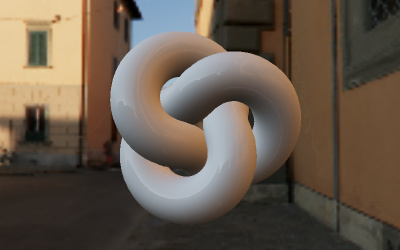
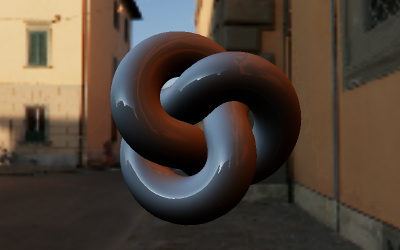
HalfFloat PMREM (#22998)
* changed format

* PMREM RGBE->HalfFloat

* fixed toneMapping problem

* update screenshots

* Update WebGLRenderer.js

* Update WebGLRenderer.js

Changed region(s): [[0.27, 0.112, 0.75, 0.924]]

diff --git a/src/extras/PMREMGenerator.js b/src/extras/PMREMGenerator.js
@@ -4,17 +4,17 @@ import {
 	CubeUVReflectionMapping,
 	GammaEncoding,
 	LinearEncoding,
+	LinearFilter,
 	NoToneMapping,
-	NearestFilter,
 	NoBlending,
 	RGBDEncoding,
 	RGBEEncoding,
 	RGBAFormat,
-	RGBEFormat,
 	RGBM16Encoding,
 	RGBM7Encoding,
 	UnsignedByteType,
-	sRGBEncoding
+	sRGBEncoding,
+	HalfFloatType
 } from '../constants.js';
 
 import { BufferAttribute } from '../core/BufferAttribute.js';
@@ -234,12 +234,12 @@ class PMREMGenerator {
 	_allocateTargets( texture ) { // warning: null texture is valid
 
 		const params = {
-			magFilter: NearestFilter,
-			minFilter: NearestFilter,
+			magFilter: LinearFilter,
+			minFilter: LinearFilter,
 			generateMipmaps: false,
-			type: UnsignedByteType,
-			format: RGBEFormat,
-			encoding: _isLDR( texture ) ? texture.encoding : RGBEEncoding,
+			type: HalfFloatType,
+			format: RGBAFormat,
+			encoding: LinearEncoding,
 			depthBuffer: false
 		};
 
@@ -267,12 +267,10 @@ class PMREMGenerator {
 		const renderer = this._renderer;
 
 		const originalAutoClear = renderer.autoClear;
-		const outputEncoding = renderer.outputEncoding;
 		const toneMapping = renderer.toneMapping;
 		renderer.getClearColor( _clearColor );
 
 		renderer.toneMapping = NoToneMapping;
-		renderer.outputEncoding = LinearEncoding;
 		renderer.autoClear = false;
 
 		const backgroundMaterial = new MeshBasicMaterial( {
@@ -342,7 +340,6 @@ class PMREMGenerator {
 		backgroundBox.material.dispose();
 
 		renderer.toneMapping = toneMapping;
-		renderer.outputEncoding = outputEncoding;
 		renderer.autoClear = originalAutoClear;
 		scene.background = background;
 
@@ -400,7 +397,6 @@ class PMREMGenerator {
 		}
 
 		this._setEncoding( uniforms[ 'inputEncoding' ], texture );
-		this._setEncoding( uniforms[ 'outputEncoding' ], cubeUVRenderTarget.texture );
 
 		_setViewport( cubeUVRenderTarget, 0, 0, 3 * SIZE_MAX, 2 * SIZE_MAX );
 
@@ -532,9 +528,6 @@ class PMREMGenerator {
 		blurUniforms[ 'dTheta' ].value = radiansPerPixel;
 		blurUniforms[ 'mipInt' ].value = LOD_MAX - lodIn;
 
-		this._setEncoding( blurUniforms[ 'inputEncoding' ], targetIn.texture );
-		this._setEncoding( blurUniforms[ 'outputEncoding' ], targetIn.texture );
-
 		const outputSize = _sizeLods[ lodOut ];
 		const x = 3 * Math.max( 0, SIZE_MAX - 2 * outputSize );
 		const y = ( lodOut === 0 ? 0 : 2 * SIZE_MAX ) + 2 * outputSize * ( lodOut > LOD_MAX - LOD_MIN ? lodOut - LOD_MAX + LOD_MIN : 0 );
@@ -544,14 +537,6 @@ class PMREMGenerator {
 		renderer.render( blurMesh, _flatCamera );
 
 	}
-
-}
-
-function _isLDR( texture ) {
-
-	if ( texture === undefined || texture.type !== UnsignedByteType ) return false;
-
-	return texture.encoding === LinearEncoding || texture.encoding === sRGBEncoding || texture.encoding === GammaEncoding;
 
 }
 
@@ -667,9 +652,7 @@ function _getBlurShader( maxSamples ) {
 			'latitudinal': { value: false },
 			'dTheta': { value: 0 },
 			'mipInt': { value: 0 },
-			'poleAxis': { value: poleAxis },
-			'inputEncoding': { value: ENCODINGS[ LinearEncoding ] },
-			'outputEncoding': { value: ENCODINGS[ LinearEncoding ] }
+			'poleAxis': { value: poleAxis }
 		},
 
 		vertexShader: _getCommonVertexShader(),
@@ -735,8 +718,6 @@ function _getBlurShader( maxSamples ) {
 
 				}
 
-				gl_FragColor = linearToOutputTexel( gl_FragColor );
-
 			}
 		`,
 
@@ -760,8 +741,7 @@ function _getEquirectShader() {
 		uniforms: {
 			'envMap': { value: null },
 			'texelSize': { value: texelSize },
-			'inputEncoding': { value: ENCODINGS[ LinearEncoding ] },
-			'outputEncoding': { value: ENCODINGS[ LinearEncoding ] }
+			'inputEncoding': { value: ENCODINGS[ LinearEncoding ] }
 		},
 
 		vertexShader: _getCommonVertexShader(),
@@ -801,8 +781,6 @@ function _getEquirectShader() {
 				vec3 bm = mix( bl, br, f.x );
 				gl_FragColor.rgb = mix( tm, bm, f.y );
 
-				gl_FragColor = linearToOutputTexel( gl_FragColor );
-
 			}
 		`,
 
@@ -824,8 +802,7 @@ function _getCubemapShader() {
 
 		uniforms: {
 			'envMap': { value: null },
-			'inputEncoding': { value: ENCODINGS[ LinearEncoding ] },
-			'outputEncoding': { value: ENCODINGS[ LinearEncoding ] }
+			'inputEncoding': { value: ENCODINGS[ LinearEncoding ] }
 		},
 
 		vertexShader: _getCommonVertexShader(),
@@ -843,9 +820,7 @@ function _getCubemapShader() {
 
 			void main() {
 
-				gl_FragColor = vec4( 0.0, 0.0, 0.0, 1.0 );
-				gl_FragColor.rgb = envMapTexelToLinear( textureCube( envMap, vec3( - vOutputDirection.x, vOutputDirection.yz ) ) ).rgb;
-				gl_FragColor = linearToOutputTexel( gl_FragColor );
+				gl_FragColor = envMapTexelToLinear( textureCube( envMap, vec3( - vOutputDirection.x, vOutputDirection.yz ) ) );
 
 			}
 		`,
@@ -928,7 +903,6 @@ function _getEncodings() {
 	return /* glsl */`
 
 		uniform int inputEncoding;
-		uniform int outputEncoding;
 
 		#include <encodings_pars_fragment>
 
@@ -961,40 +935,6 @@ function _getEncodings() {
 			} else {
 
 				return GammaToLinear( value, 2.2 );
-
-			}
-
-		}
-
-		vec4 linearToOutputTexel( vec4 value ) {
-
-			if ( outputEncoding == 0 ) {
-
-				return value;
-
-			} else if ( outputEncoding == 1 ) {
-
-				return LinearTosRGB( value );
-
-			} else if ( outputEncoding == 2 ) {
-
-				return LinearToRGBE( value );
-
-			} else if ( outputEncoding == 3 ) {
-
-				return LinearToRGBM( value, 7.0 );
-
-			} else if ( outputEncoding == 4 ) {
-
-				return LinearToRGBM( value, 16.0 );
-
-			} else if ( outputEncoding == 5 ) {
-
-				return LinearToRGBD( value, 256.0 );
-
-			} else {
-
-				return LinearToGamma( value, 2.2 );
 
 			}
 

diff --git a/src/renderers/WebGLRenderer.js b/src/renderers/WebGLRenderer.js
@@ -1410,6 +1410,7 @@ function WebGLRenderer( parameters = {} ) {
 		materialProperties.numIntersection = parameters.numClipIntersection;
 		materialProperties.vertexAlphas = parameters.vertexAlphas;
 		materialProperties.vertexTangents = parameters.vertexTangents;
+		materialProperties.toneMapping = parameters.toneMapping;
 
 	}
 
@@ -1428,6 +1429,7 @@ function WebGLRenderer( parameters = {} ) {
 		const morphTargets = !! geometry.morphAttributes.position;
 		const morphNormals = !! geometry.morphAttributes.normal;
 		const morphTargetsCount = !! geometry.morphAttributes.position ? geometry.morphAttributes.position.length : 0;
+		const toneMapping = material.toneMapped ? _this.toneMapping : NoToneMapping;
 
 		const materialProperties = properties.get( material );
 		const lights = currentRenderState.state.lights;
@@ -1506,6 +1508,10 @@ function WebGLRenderer( parameters = {} ) {
 				needsProgramChange = true;
 
 			} else if ( materialProperties.morphNormals !== morphNormals ) {
+
+				needsProgramChange = true;
+
+			} else if ( materialProperties.toneMapping !== toneMapping ) {
 
 				needsProgramChange = true;
 

diff --git a/src/renderers/shaders/ShaderChunk/cube_uv_reflection_fragment.glsl.js b/src/renderers/shaders/ShaderChunk/cube_uv_reflection_fragment.glsl.js
@@ -89,11 +89,7 @@ export default /* glsl */`
 
 		float texelSize = 1.0 / ( 3.0 * cubeUV_maxTileSize );
 
-		vec2 uv = getUV( direction, face ) * ( faceSize - 1.0 );
-
-		vec2 f = fract( uv );
-
-		uv += 0.5 - f;
+		vec2 uv = getUV( direction, face ) * ( faceSize - 1.0 ) + 0.5;
 
 		if ( face > 2.0 ) {
 
@@ -117,25 +113,7 @@ export default /* glsl */`
 
 		uv *= texelSize;
 
-		vec3 tl = envMapTexelToLinear( texture2D( envMap, uv ) ).rgb;
-
-		uv.x += texelSize;
-
-		vec3 tr = envMapTexelToLinear( texture2D( envMap, uv ) ).rgb;
-
-		uv.y += texelSize;
-
-		vec3 br = envMapTexelToLinear( texture2D( envMap, uv ) ).rgb;
-
-		uv.x -= texelSize;
-
-		vec3 bl = envMapTexelToLinear( texture2D( envMap, uv ) ).rgb;
-
-		vec3 tm = mix( tl, tr, f.x );
-
-		vec3 bm = mix( bl, br, f.x );
-
-		return mix( tm, bm, f.y );
+		return texture2D( envMap, uv ).rgb;
 
 	}
 
